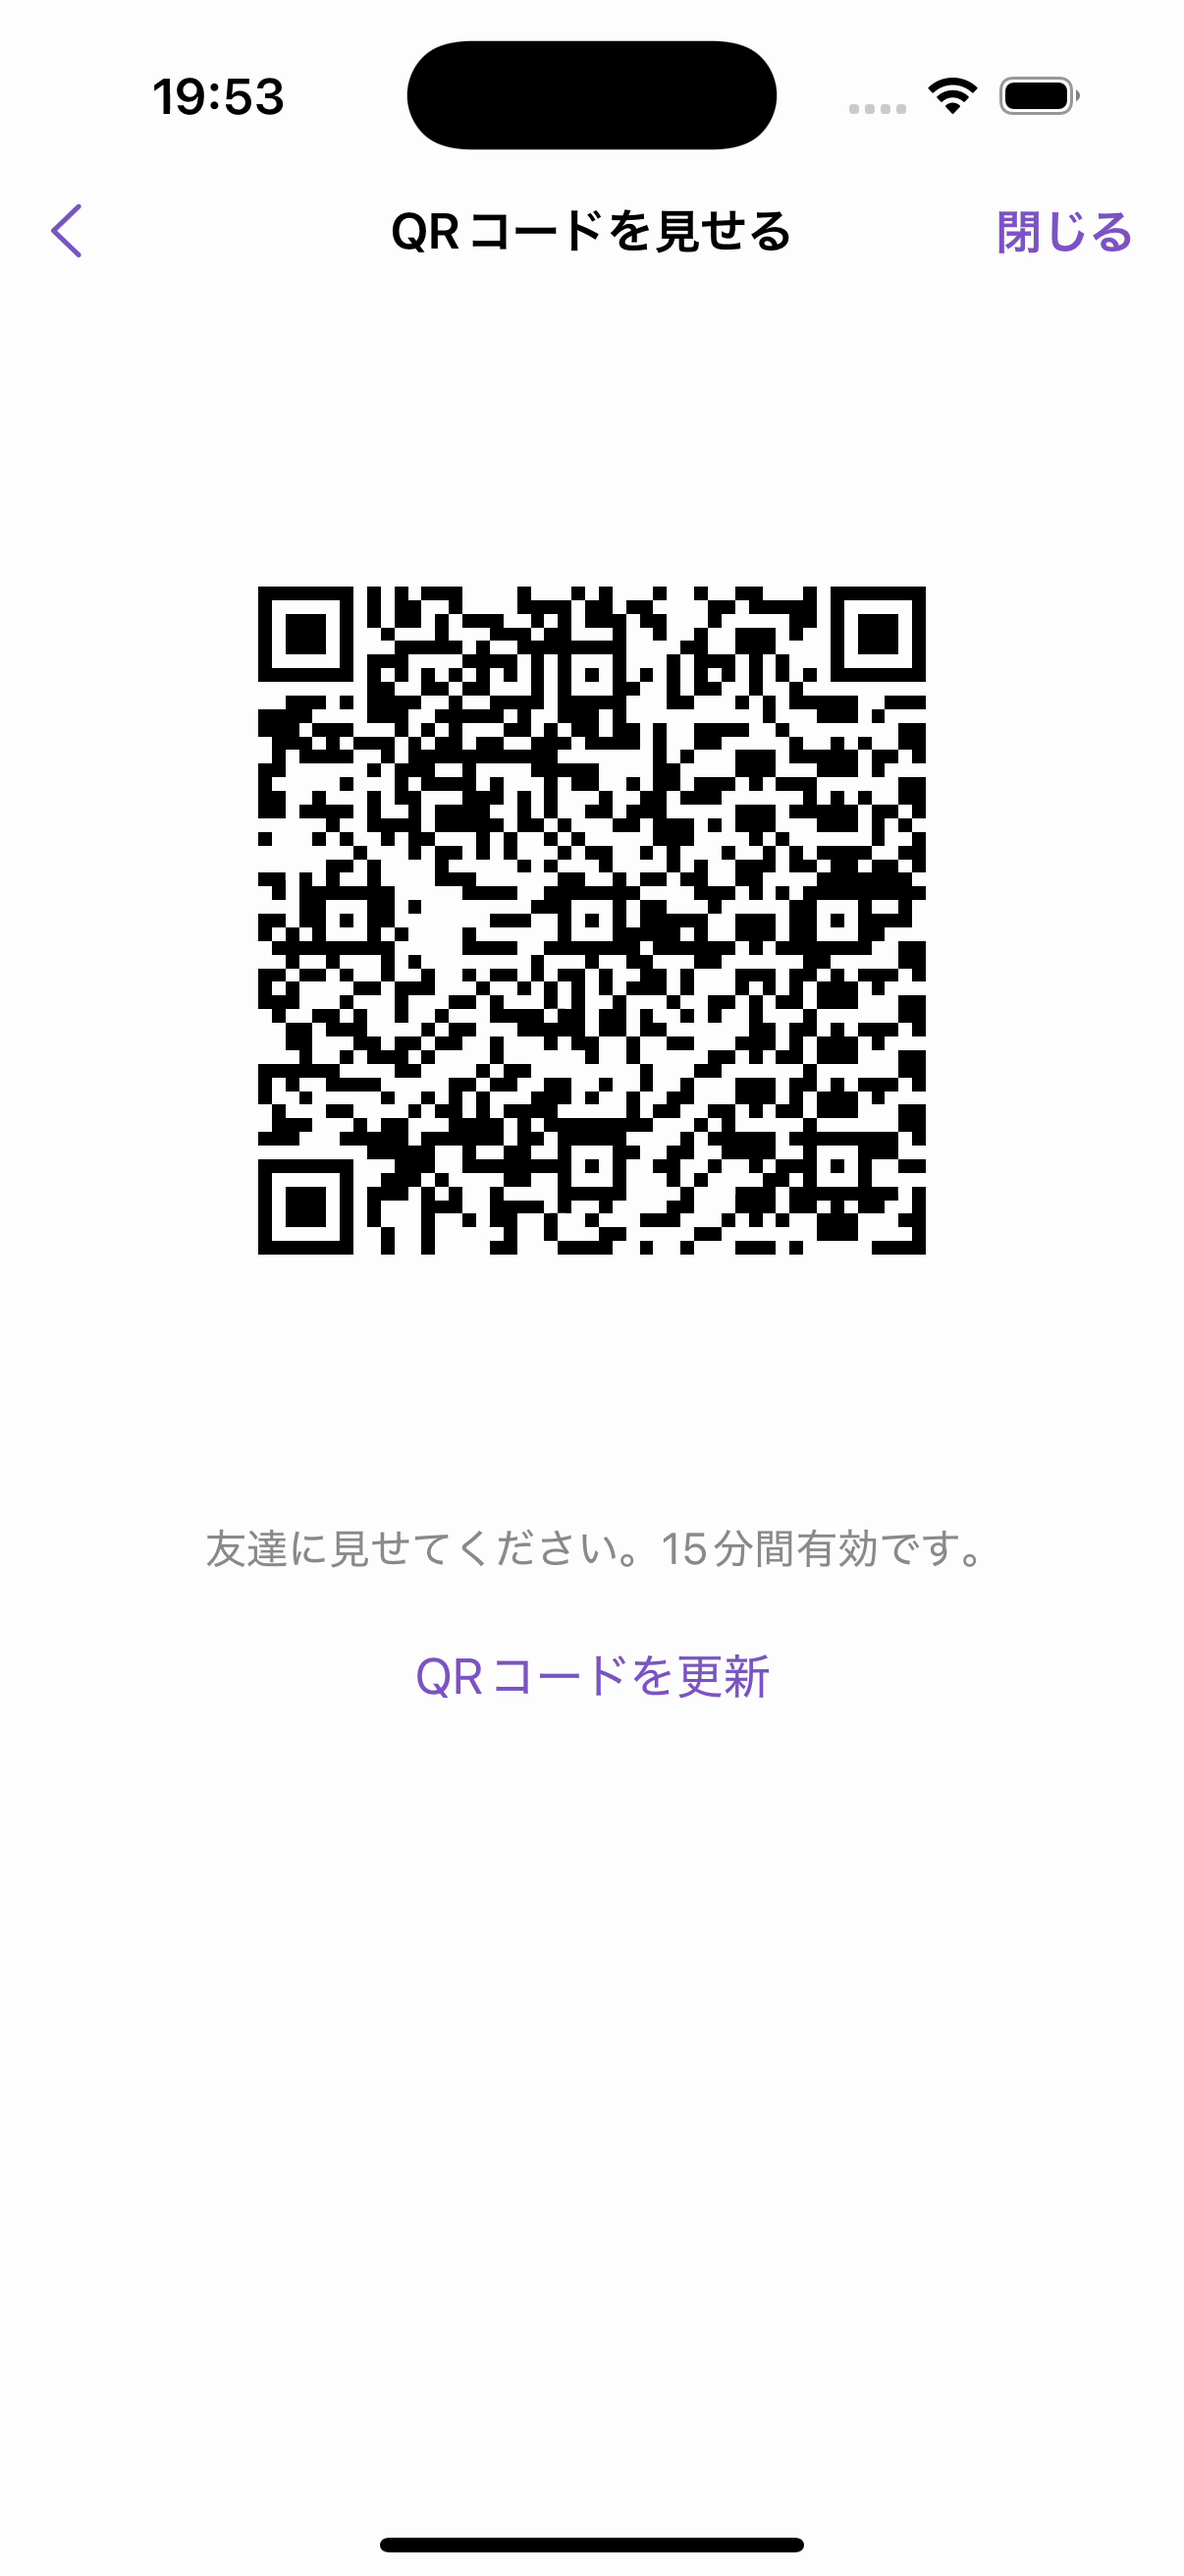
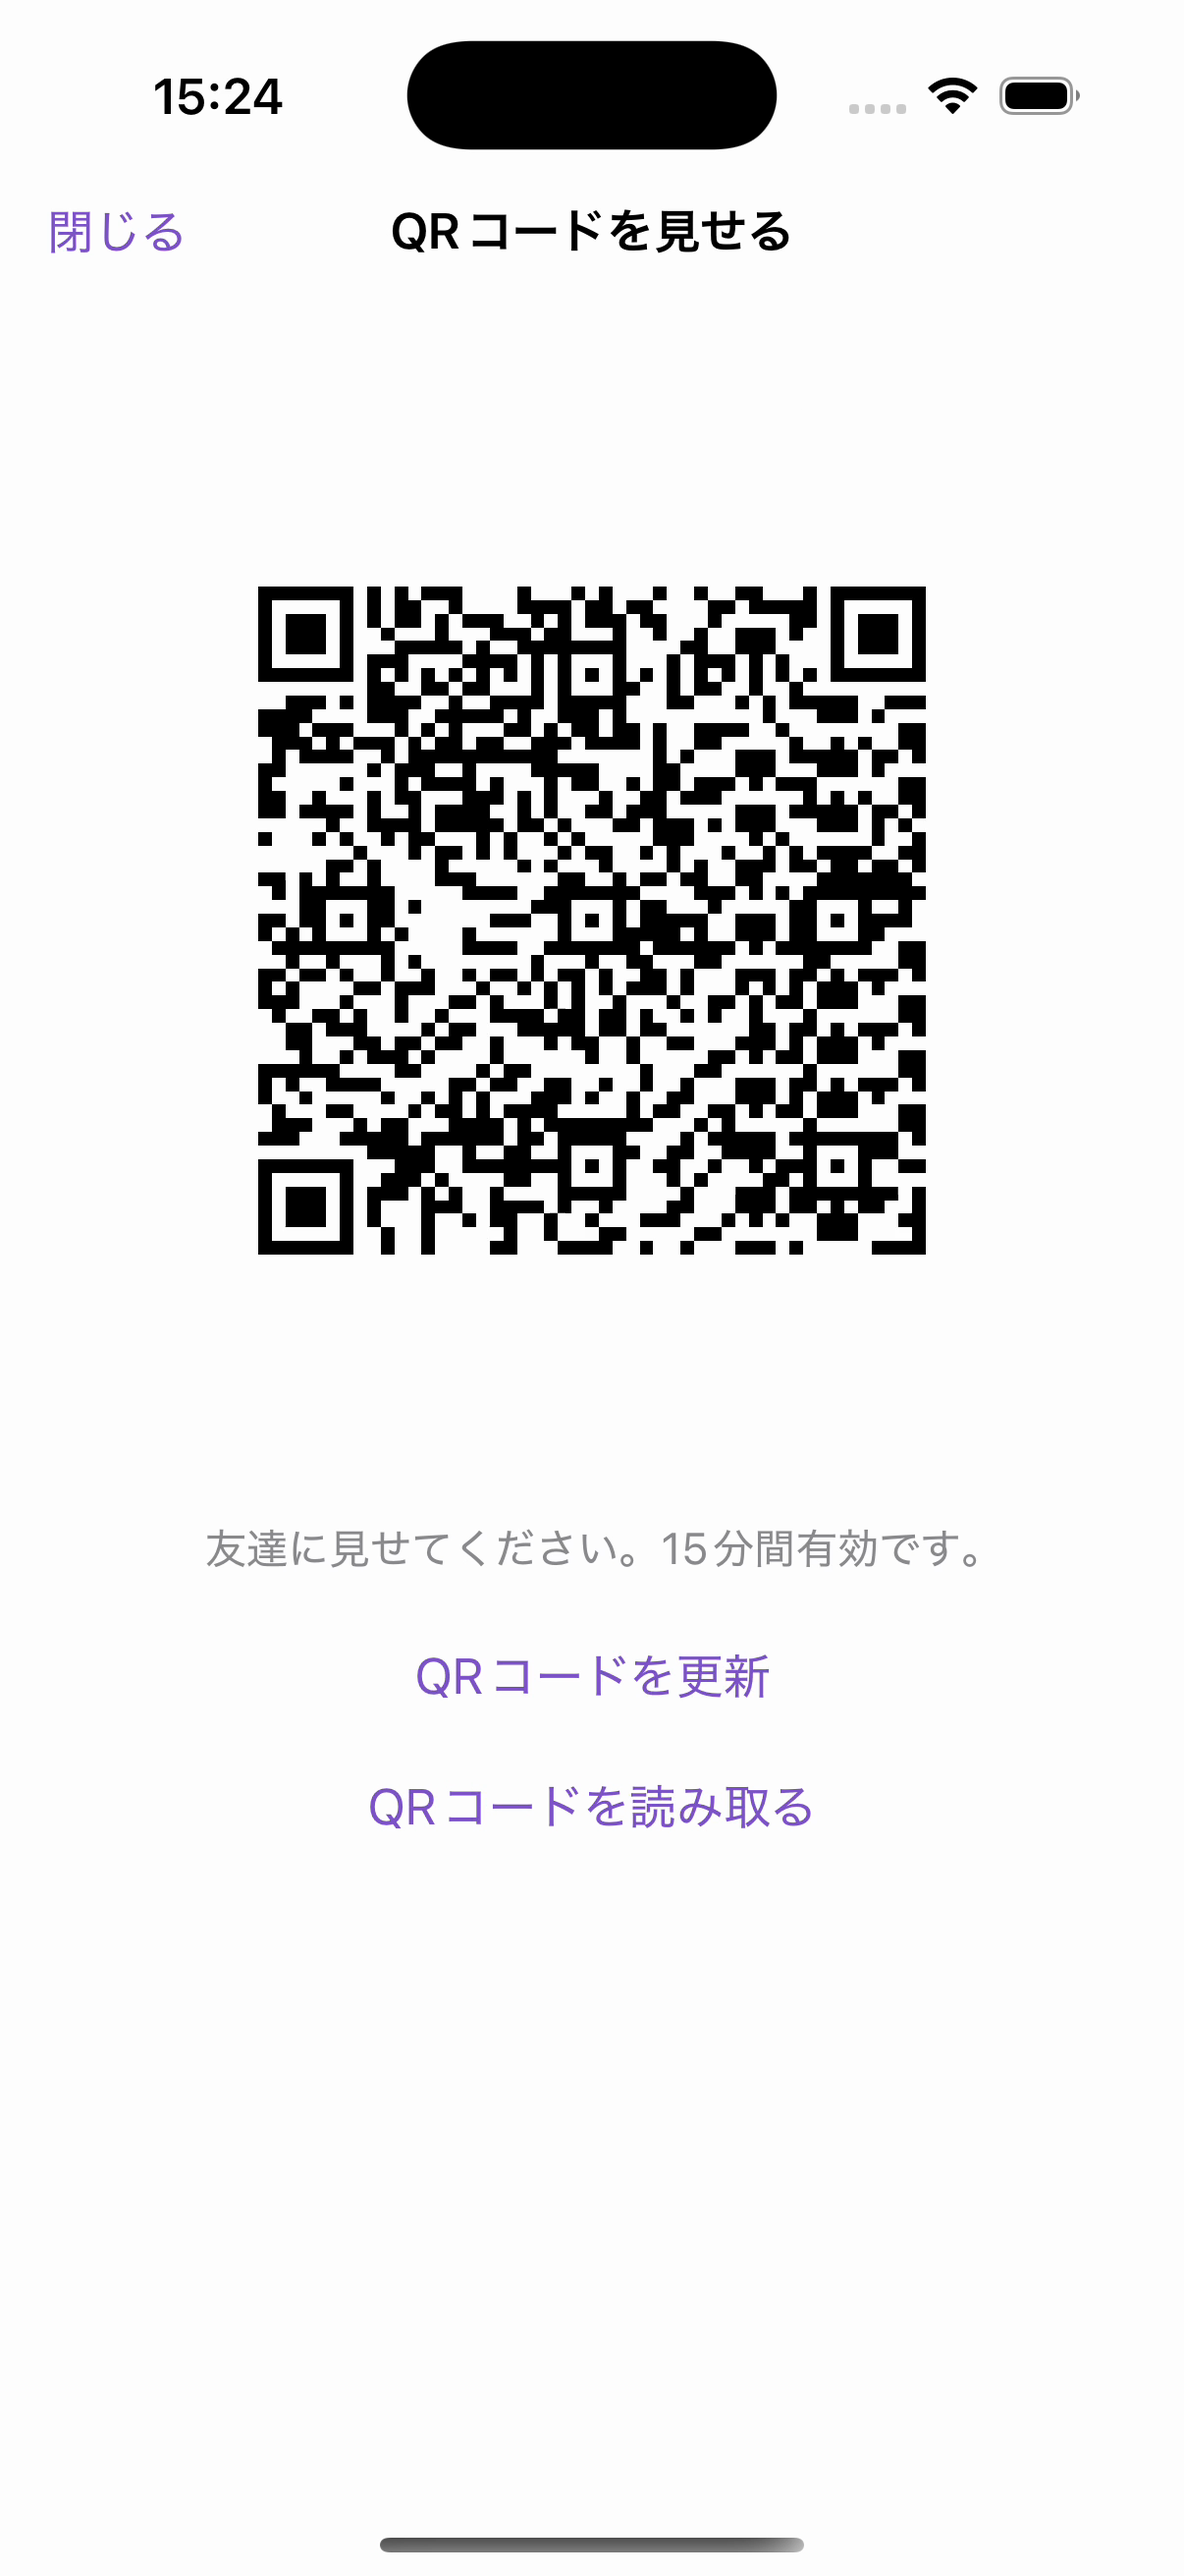
Unify QR sheet dismissal and scan switch

diff --git a/sotsugyo/View/FriendQRView.swift b/sotsugyo/View/FriendQRView.swift
@@ -55,17 +55,7 @@ struct FriendQRView: View {
             .navigationBarTitleDisplayMode(.inline)
             .toolbar {
                 ToolbarItem(placement: .cancellationAction) {
-                    if mode == .show {
-                        Button("読み取る", systemImage: "chevron.left") { mode = .scan }
-                            .accessibilityIdentifier("qr.scanMode")
-                    } else {
-                        Button("閉じる") { isPresentingQR = false }
-                    }
-                }
-                if mode == .show {
-                    ToolbarItem(placement: .confirmationAction) {
-                        Button("閉じる") { isPresentingQR = false }
-                    }
+                    Button("閉じる") { isPresentingQR = false }
                 }
             }
             .safeAreaInset(edge: .bottom) {
@@ -219,6 +209,8 @@ struct FriendQRView: View {
                 }
                 .accessibilityIdentifier("qr.refresh")
             }
+            Button("QRコードを読み取る") { mode = .scan }
+                .accessibilityIdentifier("qr.scanMode")
         }
         .frame(maxWidth: .infinity)
     }

diff --git a/sotsugyoUITests/sotsugyoUITests.swift b/sotsugyoUITests/sotsugyoUITests.swift
@@ -214,6 +214,9 @@ final class sotsugyoUITests: XCTestCase {
         XCTAssertTrue(app.buttons["一人で撮る"].waitForExistence(timeout: 5))
         app.buttons["友達と撮る"].tap()
         XCTAssertTrue(app.staticTexts["友達のQRコードを枠に合わせてください"].waitForExistence(timeout: 5))
+        app.buttons["qr.showMode"].tap()
+        XCTAssertTrue(app.navigationBars["QRコードを見せる"].waitForExistence(timeout: 5))
+        XCTAssertEqual(app.buttons.matching(identifier: "閉じる").count, 1)
         app.buttons["閉じる"].tap()
         XCTAssertTrue(app.buttons["撮影"].waitForExistence(timeout: 5))
     }
@@ -234,6 +237,8 @@ final class sotsugyoUITests: XCTestCase {
         app.buttons["qr.showMode"].tap()
         XCTAssertTrue(app.images["qr.code"].waitForExistence(timeout: 5))
         attachScreenshot("友達に見せるQRコード")
+        app.buttons["qr.scanMode"].tap()
+        XCTAssertTrue(app.buttons["qr.simulateScan"].waitForExistence(timeout: 5))
     }
 
     @MainActor

diff --git a/docs/screenshots/qr-scanner/README.md b/docs/screenshots/qr-scanner/README.md
@@ -1,6 +1,6 @@
 # QRコード画面の確認
 
-2026-10-13、iPhone 16 Pro シミュレーター（iOS 18.5）で `testCameraQRCodeFlow` を実行して撮影しました。テスト用の招待データを使用しています。相手の確認とQR表示はテスト操作中の画面録画から静止画を取り出しました。
+2026-10-13〜14、iPhone 16 Pro シミュレーター（iOS 18.5）で `testCameraQRCodeFlow` を実行して撮影しました。テスト用の招待データを使用しています。相手の確認とQR表示はテスト操作中の画面録画から静止画を取り出しました。QR表示は2026-10-14に撮り直しました。
 
 - [読み取り画面](scan-simulator.png)：シミュレーターではカメラを使用できないため、カメラ領域に実機確認の案内を表示します。
 - [相手の確認](confirmed.png)：読み取り結果を確認してから撮影に進みます。
